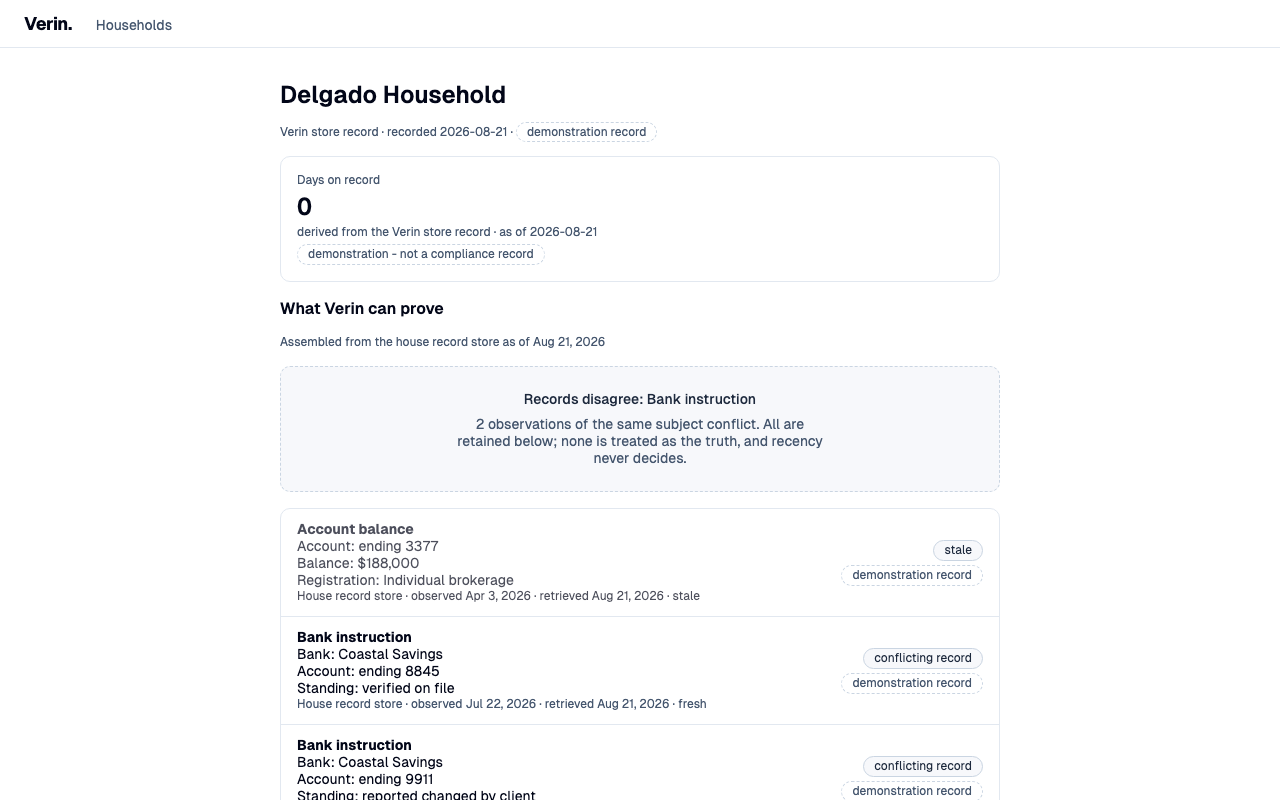
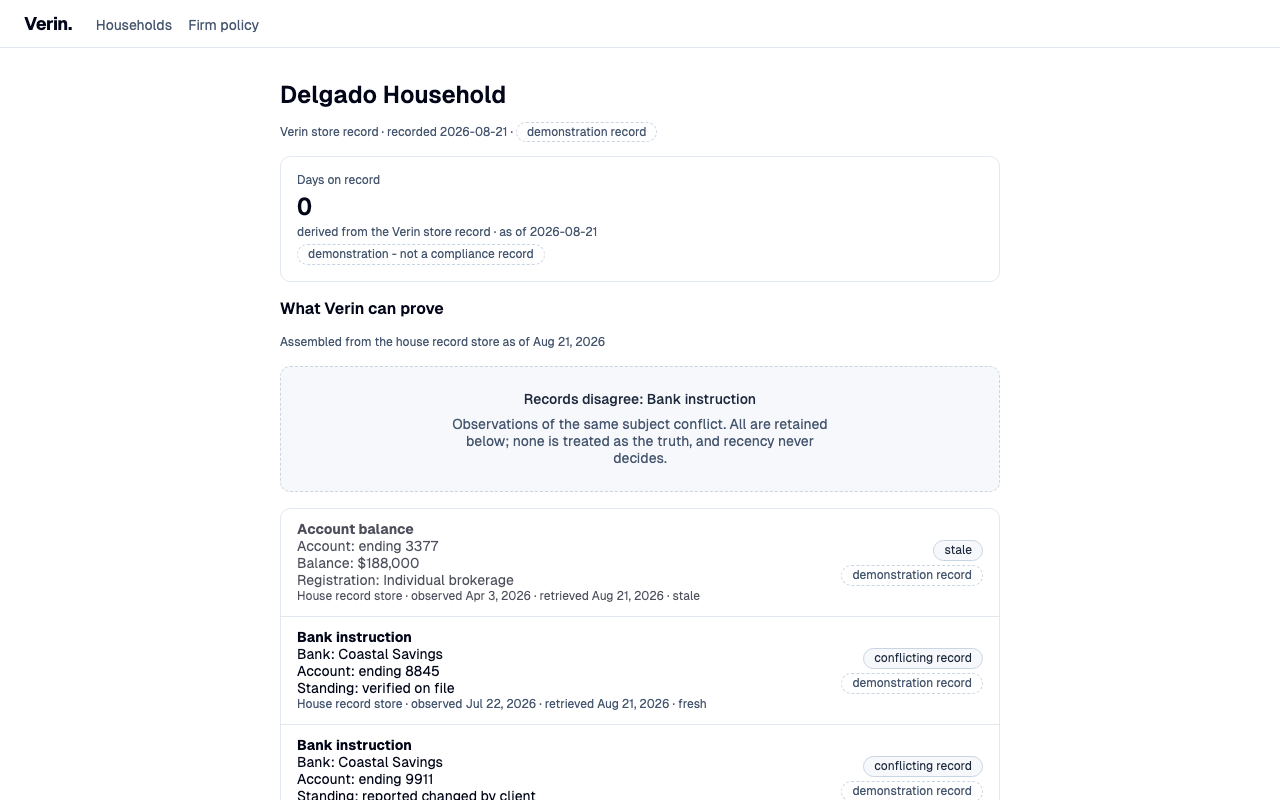
PR-4a: the section 9 evidence - transcripts, screenshots, proof-log entries, gallery rows, and the delgado recapture (carried follow-up)

Changed region(s): [[0.3438, 0.5, 0.6562, 0.5938], [0.1562, 0.0312, 0.1875, 0.0625]]

diff --git a/docs/review-gallery.md b/docs/review-gallery.md
@@ -16,6 +16,8 @@ One row per binary or captured-evidence artifact: path, SHA-256, bytes, authorsh
[9 lines of base64/hex data omitted]

diff --git a/docs/proof-log.md b/docs/proof-log.md
@@ -412,3 +412,27 @@ Delgado renders stale faded-but-readable, aging banded, both conflict sides reta
 outside the fade; Okonkwo renders four typed-absence cards; both pass the complete WCAG 2.2 AA set.
 The meta-darkening rule deleted from the fade fails the scan with a real `color-contrast` violation -
 the treatment is load-bearing, not decorative.
+
+## PR-4a proofs (prompt 4 section 6, the restack's first unit; raw transcripts with exact injected bytes: docs/evidence/pr4a-transcripts.tar, sha256 ea0afe85...; the restored green run closes the bundle)
+
+### The committed battery (M-A, M-C, M-D, M-F), the migration, and the seed
+Published bytes edited in place (six months re-inked to nine under session_replication_role=replica)
+refuse naming the identity and BOTH digests, then the exact original bytes resolve again; a
+never-published hash returns the typed NotFound carrying no policy field at all; the bound identity
+cannot be rebound - the app role holds no write and the trigger refuses even a superuser's UPDATE and
+DELETE; an expression, an interpolation, an embedded query, an unknown key and an out-of-vocabulary
+value each refuse naming the path, with zero store writes. Preflight proven on a virgin store (0 of
+6) and an upgraded one (6 of 6); the seed publishes both firm documents through the real publish path
+with record_origin='demo-seed' at every insert, skips re-run duplicates, and APP_ENV=production
+refuses it whole.
+
+### The E16 battery (M-G) and the GD-006 companions
+The span deleted from publish, the metric from resolveByHash, and every policy emission left in
+source but unreachable each fail E16 naming the operation and the missing emission; the phantom
+activate registration fails the other direction; the unregistered store write fails to build
+(TS2339), a forged GovernedOperationId fails the sealed rule at sneaky.ts:2, and appendVersion
+borrowed under resolveByHash fails parent linkage at runtime; the raw client fails by import
+(registry.ts:8) and the kernel-exported pool trips the capability probe; the prefixed identity and
+whole document bytes are refused on cardinality at annotation, before any emission. Five extra seam
+exports fail E5 (measured 7 exceeds hard 6), the same lines undeclared measure nothing, the removed
+row-set fails E5 closed, and the correlation table disagreeing fails E16 naming the row.
